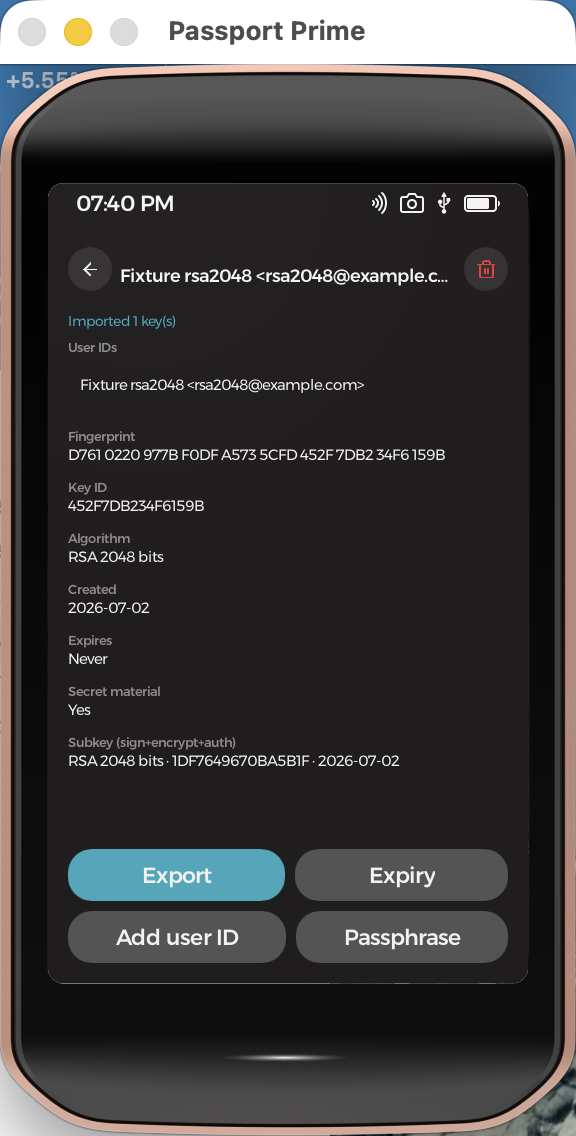
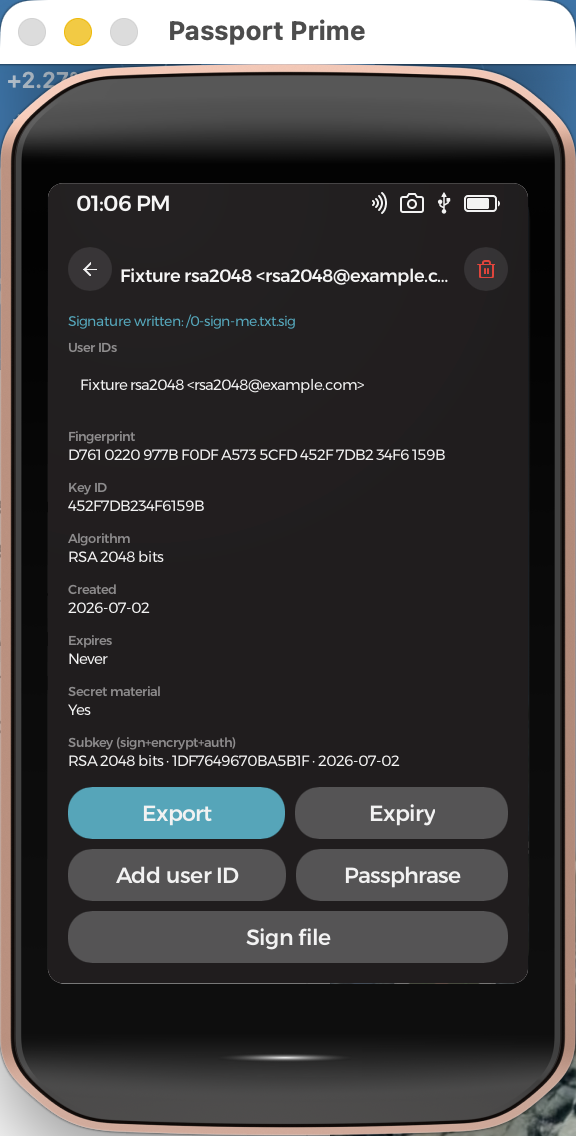
README: document file signing; refresh key-detail screenshot

diff --git a/README.md b/README.md
@@ -2,9 +2,10 @@
 
 An OpenPGP key manager for Foundation's **Passport Prime**, built as a Rust
 binary with a **Slint** UI on **KeyOS** (Foundation's Rust microkernel on
-Xous). Create, import, inspect, edit, and export OpenPGP keys — including
-keys **derived deterministically from the device's master seed**, so a seed
-phrase restore recovers your PGP identity.
+Xous). Create, import, inspect, edit, and export OpenPGP keys, and **sign
+arbitrary files** with them — including keys **derived deterministically
+from the device's master seed**, so a seed phrase restore recovers your PGP
+identity.
 
 <p align="center">
   <img src="screenshots/keychain.png" alt="Keychain list" width="280">
@@ -32,6 +33,10 @@ phrase restore recovers your PGP identity.
 - **Edit** (secret keys): extend or clear the **expiration**, **add/remove
   user IDs**, and **change or remove the passphrase** — implemented as
   proper self-signature rebuilds that GnuPG verifies.
+- **Sign files** (secret keys): pick any file on Internal, Airlock, or USB
+  and write a detached binary OpenPGP signature next to it as `<file>.sig` —
+  the same output as `gpg --detach-sign`, verifiable anywhere with
+  `gpg --verify <file>.sig <file>`.
 - **Export**: public-only or full secret key (behind a danger confirmation),
   to Internal or Airlock.
 - Keys live as one armored file per key in `/pgp-keys` on Internal storage —
@@ -79,15 +84,17 @@ nix develop ~/.foundation/sdk/current --command cargo test -p pgp-core   # host 
 
 All OpenPGP logic lives in the UI-free **`pgp-core/`** subcrate so it can be
 tested on the host: 28 tests covering per-algorithm parsing against
-gpg-generated fixtures, generation round-trips, every edit operation, seed
-derivation determinism (uid/passphrase independence, index separation), and
-**GnuPG interop** — the suite shells out to a real `gpg` in a throwaway
-`GNUPGHOME` to prove our exports import, our edited keys verify, and our
-rotated passphrases actually unlock signing (skipped cleanly when gpg is
-absent). A workspace-level simulator UI test
-(`../ui-automation/tests/pgp-keychain.sh`, 14 steps) drives every flow through
-real taps and the on-screen keyboard, including derive → delete → re-derive
-reproducing the same fingerprint.
+gpg-generated fixtures, generation round-trips, every edit operation,
+detached-signing round-trips (with tamper rejection) across RSA, Ed25519,
+and NIST P-256, seed derivation determinism (uid/passphrase independence,
+index separation), and **GnuPG interop** — the suite shells out to a real
+`gpg` in a throwaway `GNUPGHOME` to prove our exports import, our edited
+keys verify, our rotated passphrases actually unlock signing, and our
+detached signatures come back `GOODSIG` from `gpg --verify` (skipped cleanly
+when gpg is absent). A workspace-level simulator UI test
+(`../ui-automation/tests/pgp-keychain.sh`, 15 steps) drives every flow through
+real taps and the on-screen keyboard, including signing a file and derive →
+delete → re-derive reproducing the same fingerprint.
 
 ## Permissions
 
